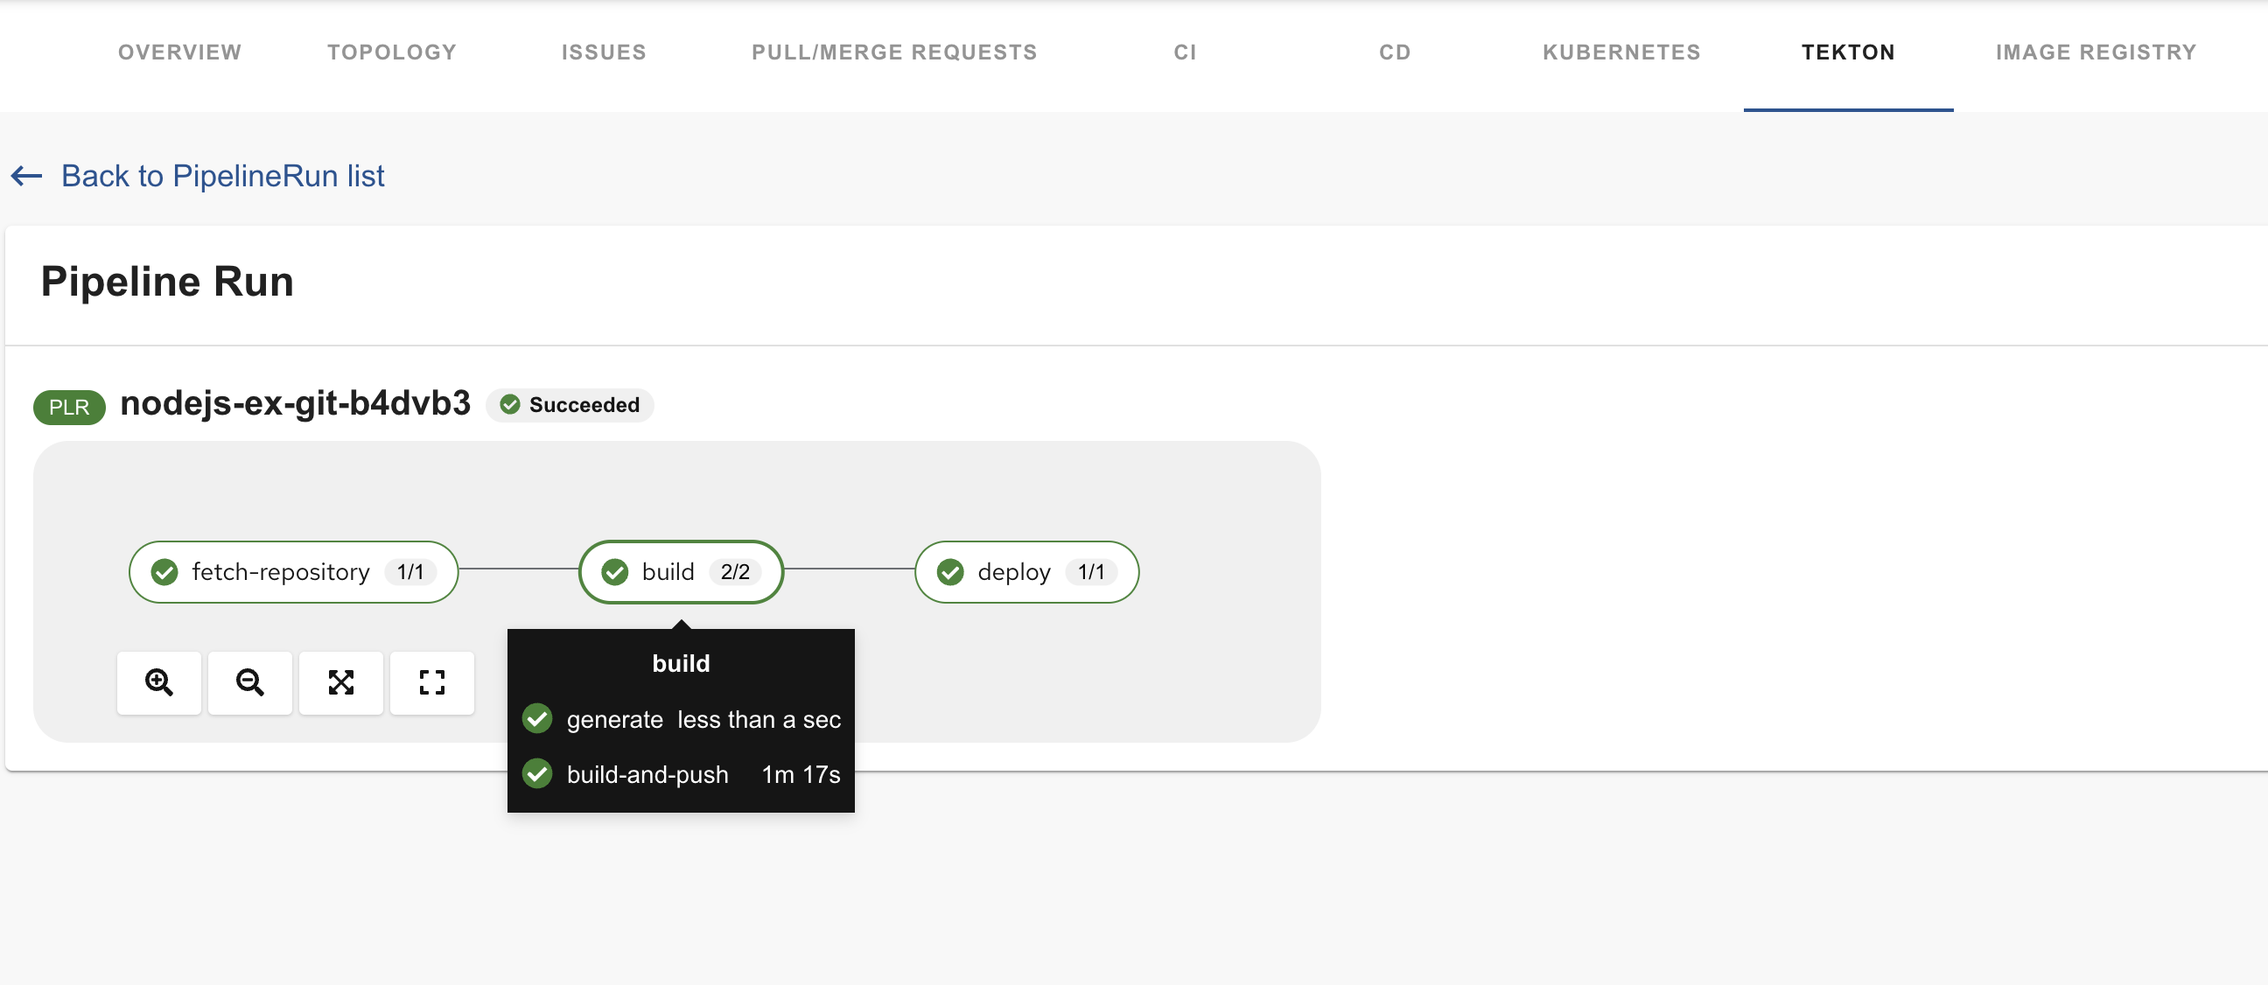
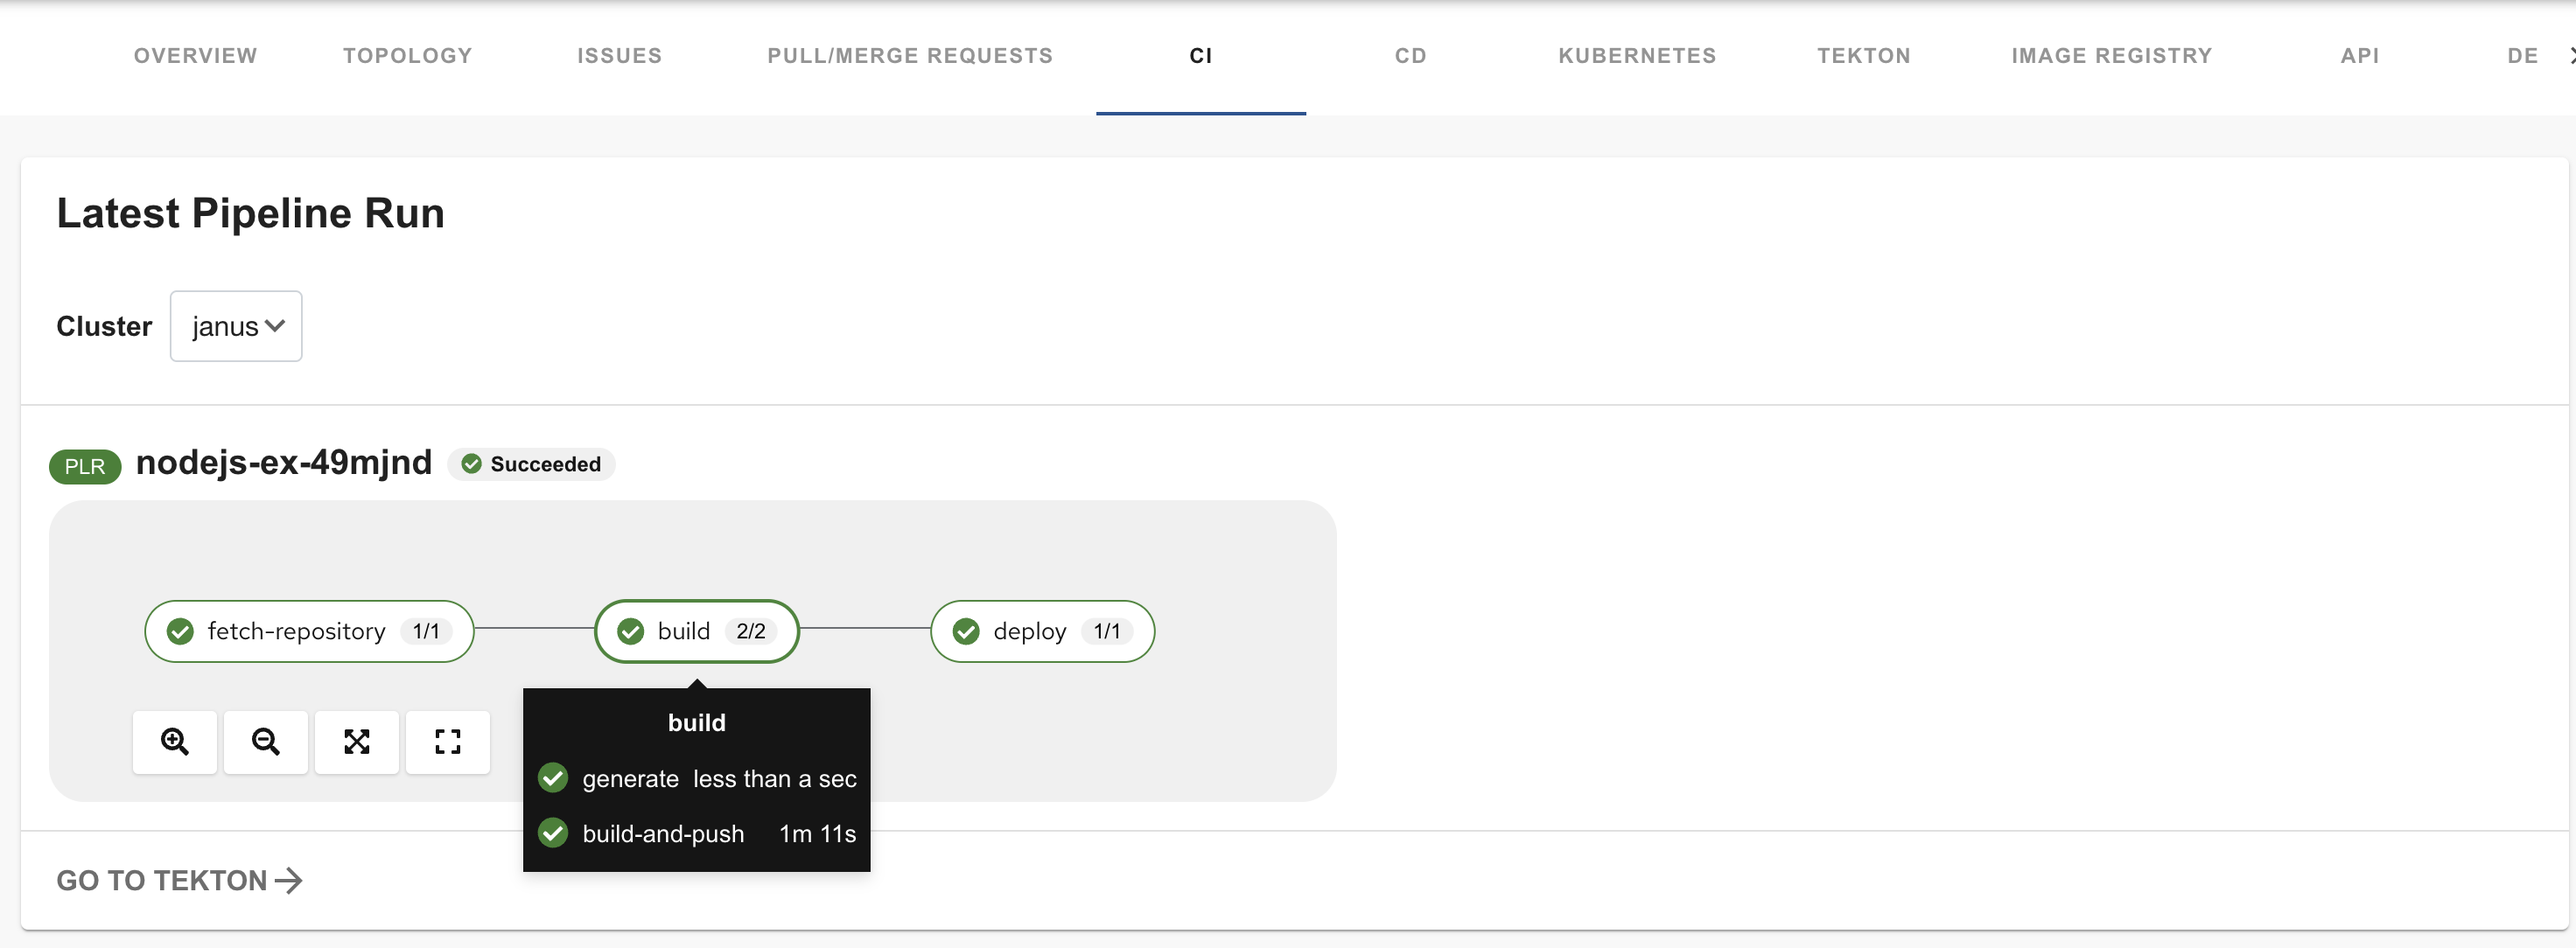
Added screenshot for pipeline run view page

diff --git a/plugins/tekton/README.md b/plugins/tekton/README.md
@@ -182,4 +182,10 @@ Tekton is a front-end plugin that enables you to view the `PipelineRun` resource
 
    The **TEKTON** tab contains the list of pipeline runs related to a cluster. The list contains pipeline run details, such as **NAME**, **STATUS**, **TASK STATUS**, **STARTED**, and **DURATION**.
 
-   ![usertekton-tab](./images/tekton-plugin-user2.png)
+   ![tekton-tab](./images/tekton-plugin-user2.png)
+
+1. Select a PipelineRun to view the related resources with a Kubernetes cluster.
+
+   ![pipelinerun-view](./images/tekton-plugin-user3.png)
+
+   To go back to the PipelineRun list, you can click the **Back to PipelineRun list** option.
